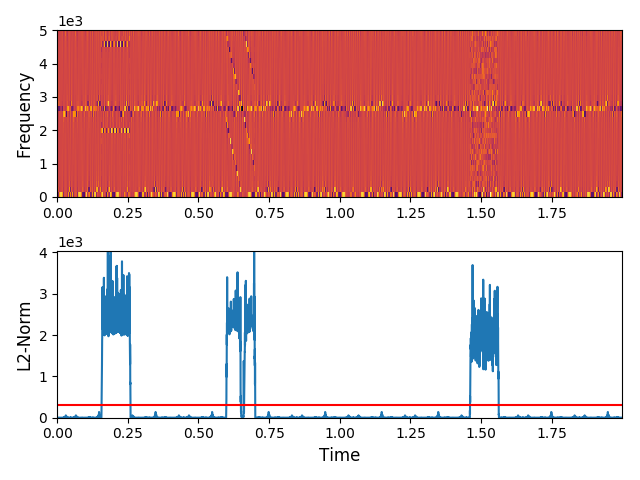
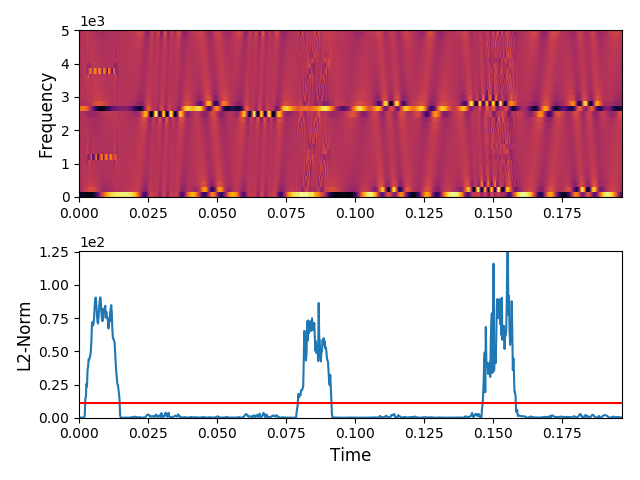
updates

Changed region(s): [[0.0312, 0.0312, 0.9688, 0.4688], [0.0625, 0.5, 0.9688, 0.9688]]

diff --git a/model/model_fft.py b/model/model_fft.py
@@ -12,10 +12,10 @@ from tensorflow.examples.tutorials.mnist import input_data
 
 def noise_band(n_l, amp, siz=0.05, fs=5e3, N=1e4, loc_s=0.0, loc_e=1.0):
         time = np.arange(N) / float(fs)
-        noise_power = n_l * amp * fs / 2
+        noise_power = amp * fs / 2
         noise = np.random.normal(scale=np.sqrt(noise_power), size=time.shape)
-        i = amp*np.cos(noise)
-        q = amp*np.sin(noise)
+        i = n_l * np.cos(noise)
+        q = n_l * np.sin(noise)
         
         s1 = np.random.uniform(loc_s,loc_e,1)
         while (s1 + siz) > 1.0:
@@ -32,9 +32,9 @@ def noise_band(n_l, amp, siz=0.05, fs=5e3, N=1e4, loc_s=0.0, loc_e=1.0):
 def noise_complex_sine(n_l, amp, siz=0.05, fs=5e3, N=1e4, loc_s=0.0, loc_e=1.0):
         time = np.arange(N) / float(fs)
         fs = np.random.uniform(fs/2, fs*2, 1)
-        mod = amp*np.exp(2j*np.pi*fs*time)
-        i = n_l*np.real(mod)
-        q = n_l*np.imag(mod)
+        mod = n_l*amp*np.exp(2j*np.pi*fs*time)
+        i = np.real(mod)
+        q = np.imag(mod)
         
         s1 = np.random.uniform(loc_s,loc_e,1)
         while (s1 + siz) > 1.0:
@@ -134,9 +134,9 @@ def plot_results(t, f, s, data, l2norm, filename, do_fft=True):
 
 def calc_snr(noise, signal):
             # Calculate SNR
-            p_noise = 1/len(noise)*np.sum(np.square(np.abs(noise)))
-            p_sn = 1/len(signal)*np.sum(np.square(np.abs(signal)))
-            return 10*np.log10((p_sn - p_noise)/p_noise)
+            p_noise = np.sqrt(1/len(noise)*np.sum(np.square(np.abs(noise))))
+            p_sn = np.sqrt(1/len(signal)*np.sum(np.square(np.abs(signal))))
+            return 10*np.log10((p_sn-p_noise)/p_noise)
 
 def carrier(amp,fs=5e3, N=1e4):
         time = np.arange(N) / float(fs)
@@ -231,8 +231,8 @@ Layer_3 = 8
 
 fs = 5e3
 N = int(1e3)
-amp = 2 * np.sqrt(2)
-do_fft = True 
+amp = 1 
+do_fft = False 
 
 # Synthetic Data
 i_s, q_s = carrier(amp, fs, N)
@@ -343,15 +343,15 @@ with tf.Session() as sess:
         f = np.linspace(0, fs, 32)
         
         i_s, q_s = carrier(amp, fs, N)
-        i_n, q_n, _, _ = noise_complex_sine(1, amp, 0.05, fs, N, 0, 0.2)
+        i_n, q_n, _, _ = noise_complex_sine(0.5, amp, 0.05, fs, N, 0, 0.2)
         i_s = i_s + i_n
         q_s = q_s + q_n
         
-        i_n, q_n, _, _ = noise_chirp(1, amp, 0.05, fs, N, 0.25, 0.5)
+        i_n, q_n, _, _ = noise_chirp(0.5, amp, 0.05, fs, N, 0.25, 0.5)
         i_s = i_s + i_n
         q_s = q_s + q_n
         
-        i_n, q_n, _, _ = noise_band(1, amp, 0.05, fs, N, 0.55, 1.0)
+        i_n, q_n, _, _ = noise_band(0.5, amp, 0.05, fs, N, 0.55, 1.0)
         i_s = i_s + i_n
         q_s = q_s + q_n
         
@@ -369,10 +369,10 @@ with tf.Session() as sess:
         t = np.arange(N) / float(fs)
         si, sq = carrier(amp, fs, N)
 
-        noise_level = np.linspace(-20, 20, 20)
+        noise_level = np.linspace(20, -20, 20)
        
-        tests = 5
-
+        tests = 40
+       
         c_snr = np.zeros((20, tests))
         c_l2n = np.zeros((20, tests))
         c_false = np.zeros((20, tests))
@@ -387,7 +387,7 @@ with tf.Session() as sess:
 
                     s = i_s*np.sin(2*np.pi*2e3*t) + q_s*np.cos(2*np.pi*2e3*t)
                     s_n = i_n*np.sin(2*np.pi*2e3*t) + q_n*np.cos(2*np.pi*2e3*t)
-                    snr = calc_snr(s_n[n_start:n_end], s[n_start:n_end])
+                    snr = calc_snr(s_n, s)
 
                 data = make_windows(i_s, q_s, int(Layer_1/2), do_fft)
                 p_pred = sess.run([pred], feed_dict={x: data})[0]
@@ -398,11 +398,35 @@ with tf.Session() as sess:
                 num_false = l2norm > (np.mean(l2norm)*1)
                 c_false[i,j] = np.sum(num_false)/len(num_false)
         
+        g_snr = np.zeros((20, tests))
+        g_l2n = np.zeros((20, tests))
+        g_false = np.zeros((20, tests))
+        for j in tqdm(range(tests)):
+            for i in range(20):
+                snr = 0.0
+                while((np.abs(snr - noise_level[i]) > 1) or np.isnan(snr)):
+                    noise = np.random.uniform(0.00001, 10, 1)
+                    i_n, q_n, n_start, n_end = noise_band(noise, amp, 0.2, fs, N)
+                    i_s = si + i_n
+                    q_s = sq + q_n
+
+                    s = i_s*np.sin(2*np.pi*2e3*t) + q_s*np.cos(2*np.pi*2e3*t)
+                    s_n = i_n*np.sin(2*np.pi*2e3*t) + q_n*np.cos(2*np.pi*2e3*t)
+                    snr = calc_snr(s_n[n_start:n_end], s[n_start:n_end])
+
+                data = make_windows(i_s, q_s, int(Layer_1/2), do_fft)
+                p_pred = sess.run([pred], feed_dict={x: data})[0]
+                l2norm = np.sum(np.square(p_pred - data),1)
+                g_snr[i,j] = snr
+                g_l2n[i,j] = np.mean(l2norm[n_start:n_end])/(np.mean(l2norm)*1) > 1
+                l2norm[n_start:n_end] = 0
+                num_false = l2norm > (np.mean(l2norm)*1)
+                g_false[i,j] = np.sum(num_false)/len(num_false)
+        
         ch_snr = np.zeros((20, tests))
         ch_l2n = np.zeros((20, tests))
-        ch_l2n_14 = np.zeros((20, tests))
+        ch_num = np.zeros((20, tests))
         ch_false = np.zeros((20, tests))
-        ch_false_14 = np.zeros((20, tests))
         for j in tqdm(range(tests)):
             for i in range(20):
                 snr = 0.0
@@ -421,31 +445,35 @@ with tf.Session() as sess:
                 l2norm = np.sum(np.square(p_pred - data),1)
                 ch_snr[i,j] = snr
                 ch_l2n[i,j] = np.mean(l2norm[n_start:n_end])/(np.mean(l2norm)*1) > 1
-                ch_l2n_14[i,j] = np.mean(l2norm[n_start:n_end])/(np.mean(l2norm)*1.4) > 1
+                num_pred = l2norm > (np.mean(l2norm*1))
+                ch_num[i,j] = np.sum(num_pred)/len(num_pred)
                 l2norm[n_start:n_end] = 0
                 num_false = l2norm > (np.mean(l2norm*1))
-                num_false_14 = l2norm > (np.mean(l2norm*1.4))
                 ch_false[i,j] = np.sum(num_false)/len(num_false)
-                ch_false_14[i,j] = np.sum(num_false_14)/len(num_false_14)
         
         c_snr = np.mean(c_snr, axis=1)
         c_l2n = np.sum(c_l2n, axis=1)/tests
         c_false = np.mean(c_false, axis=1)
         ch_snr = np.mean(ch_snr, axis=1)
         ch_l2n = np.sum(ch_l2n, axis=1)/tests
-        ch_l2n_14 = np.sum(ch_l2n_14, axis=1)/tests
         ch_false = np.mean(ch_false, axis=1)
-        ch_false_14 = np.mean(ch_false_14, axis=1)
+        ch_num = np.mean(ch_num, axis=1)
+        g_snr = np.mean(g_snr, axis=1)
+        g_l2n = np.sum(g_l2n, axis=1)/tests
+        g_false = np.mean(g_false, axis=1)
         
         plt.close('all')
-        plt.plot(c_snr, c_l2n, label="Complex Sinusoid")
-        plt.plot(c_snr, c_false, label="Complex Sinusoid (False)")
-        plt.plot(ch_snr, ch_l2n, label="Chirp Event")
-        #plt.plot(ch_snr, ch_l2n_14, label="Chirp Event (1.4 Threshold Scale")
-        plt.plot(ch_snr, ch_false, label="Chirp Event (False)")
-        #plt.plot(ch_snr, ch_false_14, label="Chirp Event (False - 1.4 Threshold Scale)")
+        #plt.plot(c_snr, c_l2n, label="Complex Sinusoid")
+        plt.plot(c_snr, c_l2n-c_false, label="Complex Sinusoid")
+        plt.plot(ch_snr, ch_l2n-ch_false, label="Chirp Event")
+        plt.plot(g_snr, g_l2n-g_false, label="Gaussian Band")
+        #plt.plot(c_snr, c_false, label="Complex Sinusoid (False)")
+        #plt.plot(ch_snr, ch_l2n, label="Chirp Event")
+        #plt.plot(ch_snr, ch_false, label="Chirp Event (False)")
+        #plt.plot(g_snr, g_l2n, label="Gaussian Noise")
+        #plt.plot(g_snr, g_false, label="Gaussian Noise (False)")
         plt.legend(bbox_to_anchor=(0., 1.02, 1., .102), loc=3,
-                           ncol=2, mode="expand", borderaxespad=0.)
+                           ncol=3, mode="expand", borderaxespad=0.)
         plt.margins(x=0,y=0)
         plt.ylim(0,1.05)
         plt.xlim(-20,20)
